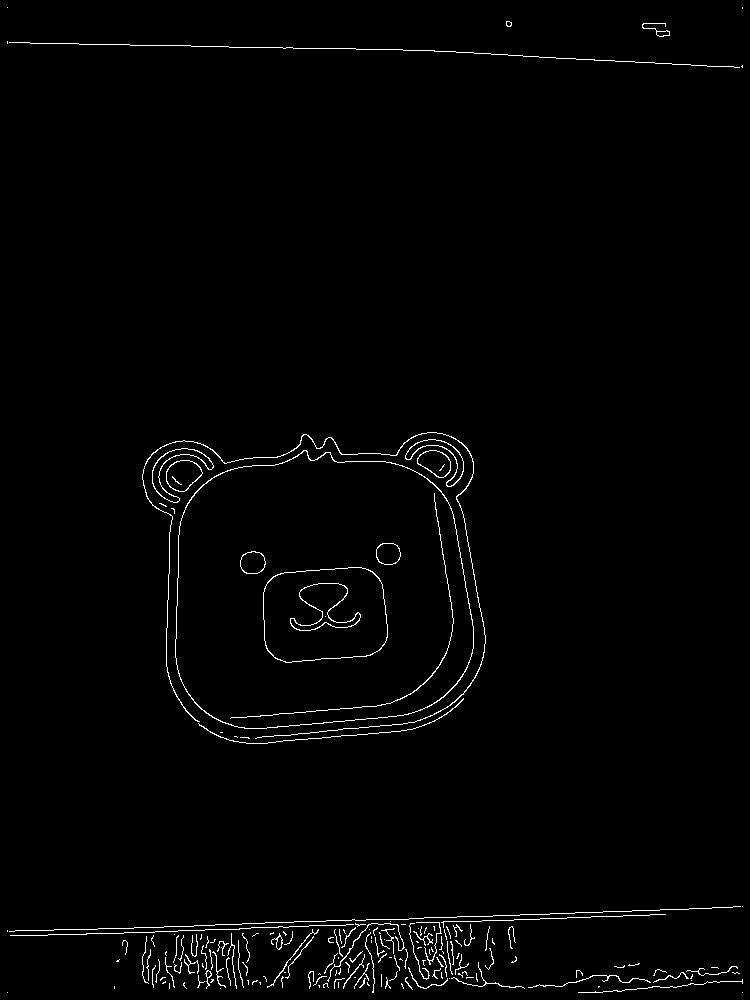
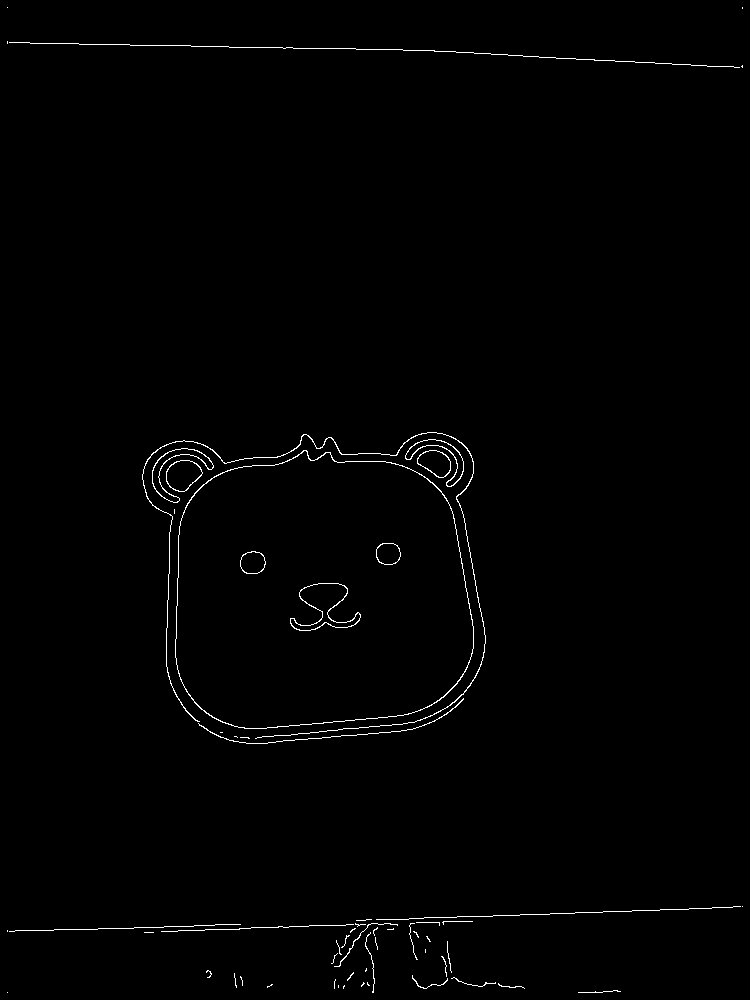
Going to have Anythony work on cropping image

diff --git a/src/main/java/hello/EdgeDetection.java b/src/main/java/hello/EdgeDetection.java
@@ -4,7 +4,10 @@
 
 package hello;
 
-import java.awt.image.BufferedImage;
+import javax.imageio.ImageIO;
+import java.awt.*;
+import java.awt.image.*;
+import java.io.File;
 import java.util.Arrays;
 
 
@@ -483,16 +486,6 @@ public class EdgeDetection {
 
                 System.out.println("--------------------------------------------------------------------------------");
                 System.out.println("TYPE_INT_RGB");
-                //For testing
-//                System.out.println("P value: " + p);
-//                System.out.println("R value: " + r);
-//
-//                System.out.println("G value: " + g);
-//
-//                System.out.println("B value: " + b);
-                //testing
-
-
                 data[i] = luminance(r, g, b);
             }
         } else if (type == BufferedImage.TYPE_BYTE_GRAY) {
@@ -567,5 +560,60 @@ public class EdgeDetection {
         edgesImage.getWritableTile(0, 0).setDataElements(0, 0, width, height, pixels);
     }
 
+    public static void removeBackground(String fileName) throws Exception {
 
+//        File in = new File("C:\\Users\\Christoffer\\Desktop\\christoffer.jpg");
+        String fileType = "";
+        if (fileName.contains("png")) {
+            fileType = "png";
+        } else if (fileName.contains("jpg")) {
+            fileType = "jpg";
+        } else if (fileName.contains("jpeg")) {
+            fileType = "jpeg";
+        }
+        File in = new File(System.getProperty("user.dir") + "/upload-dir/final" + fileName);
+        BufferedImage source = ImageIO.read(in);
+
+        int color = source.getRGB(0, 0);
+
+        Image image = makeColorTransparent(source, new Color(color));
+
+        BufferedImage transparent = imageToBufferedImage(image);
+
+        File out = new File(System.getProperty("user.dir") + "/upload-dir/" + "removed_" + fileName);
+        ImageIO.write(transparent, fileType, out);
+
+    }
+
+    private static BufferedImage imageToBufferedImage(Image image) {
+
+        BufferedImage bufferedImage = new BufferedImage(image.getWidth(null), image.getHeight(null), BufferedImage.TYPE_INT_ARGB);
+        Graphics2D g2 = bufferedImage.createGraphics();
+        g2.drawImage(image, 0, 0, null);
+        g2.dispose();
+
+        return bufferedImage;
+
+    }
+
+    public static Image makeColorTransparent(BufferedImage im, final Color color) {
+        ImageFilter filter = new RGBImageFilter() {
+
+            // the color we are looking for... Alpha bits are set to opaque
+            public int markerRGB = color.getRGB() | 0xFF000000;
+
+            public final int filterRGB(int x, int y, int rgb) {
+                if ((rgb | 0xFF000000) == markerRGB) {
+                    // Mark the alpha bits as zero - transparent
+                    return 0x00FFFFFF & rgb;
+                } else {
+                    // nothing to do
+                    return rgb;
+                }
+            }
+        };
+
+        ImageProducer ip = new FilteredImageSource(im.getSource(), filter);
+        return Toolkit.getDefaultToolkit().createImage(ip);
+    }
 }

diff --git a/segmentation1.py b/segmentation1.py
@@ -1,0 +1,74 @@
+import numpy as np
+import cv2
+
+def getSobel (channel):
+
+    sobelx = cv2.Sobel(channel, cv2.CV_16S, 1, 0, borderType=cv2.BORDER_REPLICATE)
+    sobely = cv2.Sobel(channel, cv2.CV_16S, 0, 1, borderType=cv2.BORDER_REPLICATE)
+    sobel = np.hypot(sobelx, sobely)
+
+    return sobel;
+
+def findSignificantContours (img, sobel_8u):
+    image, contours, heirarchy = cv2.findContours(sobel_8u, cv2.RETR_TREE, cv2.CHAIN_APPROX_SIMPLE)
+
+    # Find level 1 contours
+    level1 = []
+    for i, tupl in enumerate(heirarchy[0]):
+        # Each array is in format (Next, Prev, First child, Parent)
+        # Filter the ones without parent
+        if tupl[3] == -1:
+            tupl = np.insert(tupl, 0, [i])
+            level1.append(tupl)
+
+    # From among them, find the contours with large surface area.
+    significant = []
+    tooSmall = sobel_8u.size * 5 / 100 # If contour isn't covering 5% of total area of image then it probably is too small
+    for tupl in level1:
+        contour = contours[tupl[0]];
+        area = cv2.contourArea(contour)
+        if area > tooSmall:
+            cv2.drawContours(img, [contour], 0, (0,255,0),2, cv2.LINE_AA, maxLevel=1)
+            significant.append([contour, area])
+
+    significant.sort(key=lambda x: x[1])
+    return [x[0] for x in significant];
+
+def segment (path):
+    img = cv2.imread(path)
+
+    blurred = cv2.GaussianBlur(img, (5, 5), 0) # Remove noise
+
+    # Edge operator
+    sobel = np.max( np.array([ getSobel(blurred[:,:, 0]), getSobel(blurred[:,:, 1]), getSobel(blurred[:,:, 2]) ]), axis=0 )
+
+    # Noise reduction trick, from http://sourceforge.net/p/octave/image/ci/default/tree/inst/edge.m#l182
+    mean = np.mean(sobel)
+
+    # Zero any values less than mean. This reduces a lot of noise.
+    sobel[sobel <= mean] = 0;
+    sobel[sobel > 255] = 255;
+
+    cv2.imwrite('output/edge.png', sobel);
+
+    sobel_8u = np.asarray(sobel, np.uint8)
+
+    # Find contours
+    significant = findSignificantContours(img, sobel_8u)
+
+    # Mask
+    mask = sobel.copy()
+    mask[mask > 0] = 0
+    cv2.fillPoly(mask, significant, 255)
+    # Invert mask
+    mask = np.logical_not(mask)
+
+    #Finally remove the background
+    img[mask] = 0;
+
+    fname = path.split('/')[-1]
+    cv2.imwrite('output/' + fname, img);
+    print (path)
+
+
+segment('upload-dir/test.png')

diff --git a/src/main/java/hello/EdgeDetectionTraversal.java b/src/main/java/hello/EdgeDetectionTraversal.java
@@ -19,8 +19,8 @@ class EdgeDetectionTraversal {
         //instatiate an edge detector object
         EdgeDetection detector = new EdgeDetection();
 
-        detector.setLowThreshold(2f);
-        detector.setHighThreshold(3f);
+        detector.setLowThreshold(8f);
+        detector.setHighThreshold(10f);
 
         try {
 //            Rectangle quad = new Rectangle();
@@ -46,9 +46,14 @@ class EdgeDetectionTraversal {
             File f = new File(System.getProperty("user.dir") + "/upload-dir/final" + fileName);
             ImageIO.write(edges, fileType, f);
 
+
+            EdgeDetection.removeBackground(fileName);
+
         } catch (IOException e) {
             System.out.println("\nInside catch block");
             System.out.println("[ERROR] " + e.getMessage());
+        } catch (Exception e) {
+            e.printStackTrace();
         }
     }
 }

diff --git a/src/main/java/hello/FileUploadController.java b/src/main/java/hello/FileUploadController.java
@@ -59,6 +59,7 @@ public class FileUploadController {
         redirectAttributes.addFlashAttribute("message", "You successfully uploaded " + file.getOriginalFilename() + "!");
 
         System.out.println("[ File Upload Controller ] " + file.getOriginalFilename());
+//        EdgeDetectionTraversal edgeDetectionTraversal = new EdgeDetectionTraversal(file.getOriginalFilename());
         EdgeDetectionTraversal edgeDetectionTraversal = new EdgeDetectionTraversal(file.getOriginalFilename());
 
         return "redirect:/";
